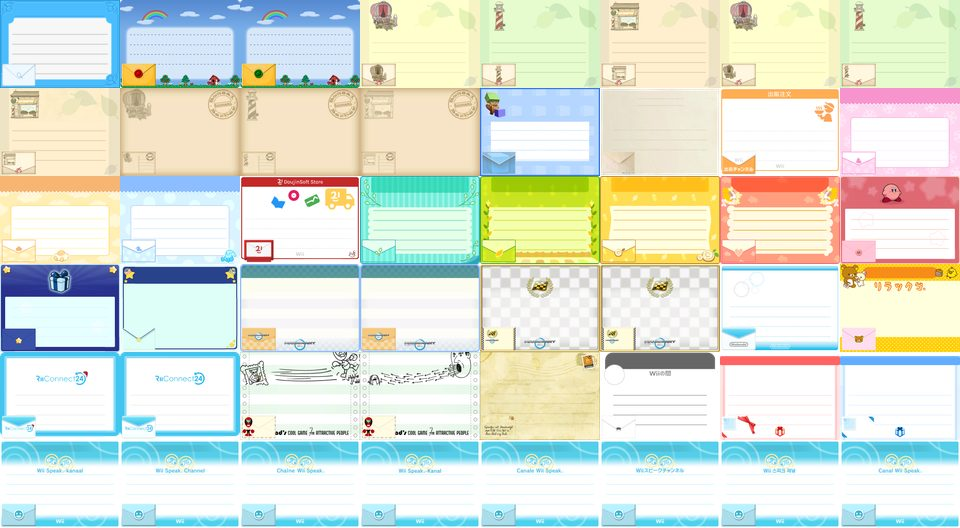
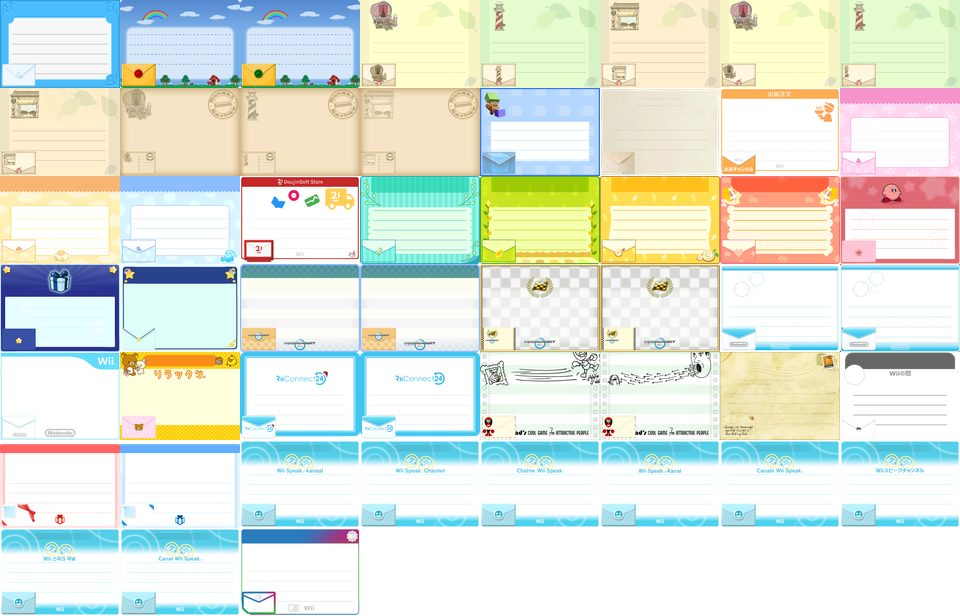
Add Nintendo Channel and WiiLink to the letterhead gallery

diff --git a/wii/source/letterhead_ids.h b/wii/source/letterhead_ids.h
@@ -36,6 +36,8 @@ static const char *const LH_SHEET_IDS[] = {
     "mario-kart-wii-tournament-international",
     "mario-kart-wii-tournament-japan",
     "nintendo-channel",
+    "nintendo-channel-1",
+    "nintendo-channel-2",
     "relaxuma-minna-de-goyururi-seikatsu",
     "riiconnect24-christmas",
     "riiconnect24-normal",
@@ -53,5 +55,6 @@ static const char *const LH_SHEET_IDS[] = {
     "wii-speak-channel-japanese",
     "wii-speak-channel-korean",
     "wii-speak-channel-spanish",
+    "wiilink",
 };
 #define LH_SHEET_COUNT (int)(sizeof LH_SHEET_IDS / sizeof LH_SHEET_IDS[0])
